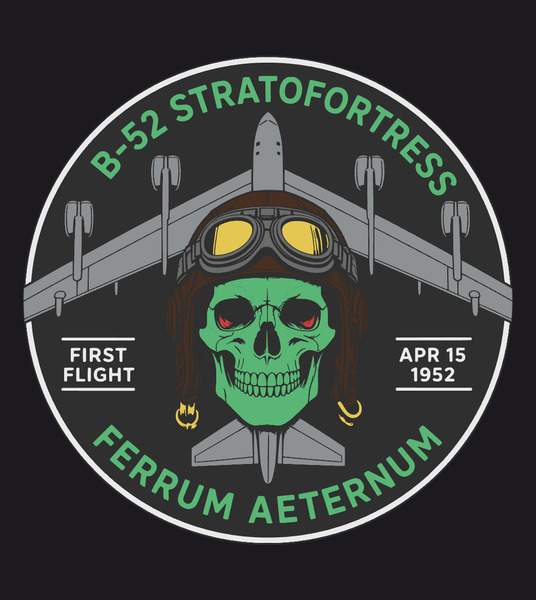
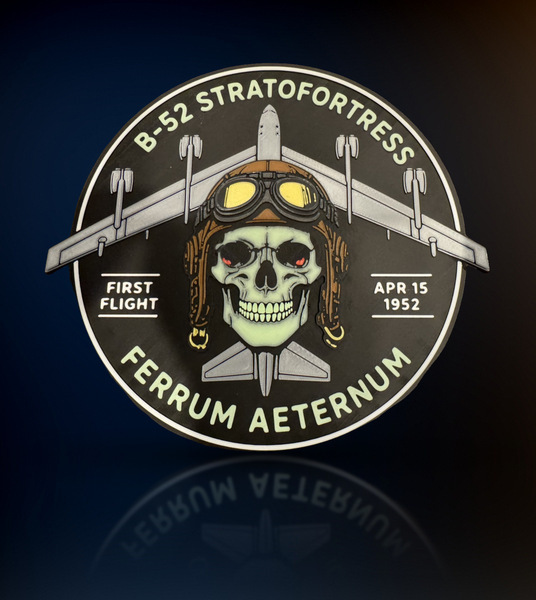
B-52: real studio hero, thumb, and gallery photos
Replace the design stand-in with a studio cutout of the printed plaque (no stand), a resize-then-crop thumb, and daylight and glow gallery photos. Classical retouch only on the source used for the hero and daylight shot.

diff --git a/index.html b/index.html
@@ -42,8 +42,7 @@ footer{text-align:center;color:#6b7180;font-size:.85rem;padding:0 20px 32px;max-
   </header>
   <div class="grid">
     <!-- One card per plaque. Add new ones here. -->
-    <!-- TODO: replace b52/thumb.jpg with a real-photo thumb once print photos arrive; current file is a temporary design stand-in. -->
-    <a class="card" href="b52/"><img src="b52/thumb.jpg?v=1" alt="B-52 Stratofortress plaque" loading="lazy"><div class="info"><span class="name">B-52 Stratofortress</span><span class="price">$30</span></div><span class="status">Ferrum Aeternum<span class="tr">&ldquo;Eternal Iron&rdquo;</span><span class="feat">Glow-in-the-dark &middot; Magnetic</span></span></a>
+    <a class="card" href="b52/"><img src="b52/thumb.jpg?v=2" alt="B-52 Stratofortress plaque" loading="lazy"><div class="info"><span class="name">B-52 Stratofortress</span><span class="price">$30</span></div><span class="status">Ferrum Aeternum<span class="tr">&ldquo;Eternal Iron&rdquo;</span><span class="feat">Glow-in-the-dark &middot; Magnetic</span></span></a>
     <a class="card" href="oz/"><img src="oz/thumb.jpg?v=3" alt="Oz plaque" loading="lazy"><div class="info"><span class="name">Oz</span><span class="price">$25</span></div><span class="status"><span class="feat">Glow-in-the-dark &middot; Includes stand</span></span></a>
     <a class="card" href="reaper/"><img src="reaper/thumb.jpg" alt="Reaper plaque" loading="lazy"><div class="info"><span class="name">Reaper</span><span class="price">$25</span></div><span class="status">Carpe Noctem<span class="tr">&ldquo;Seize the Night&rdquo;</span><span class="feat">Glow-in-the-dark &middot; Includes stand</span></span></a>
     <a class="card" href="b21/"><img src="b21/thumb.jpg" alt="B-21 Raider plaque" loading="lazy"><div class="info"><span class="name">B-21 Raider</span><span class="price">$30</span></div><span class="status">Umbra Mortis<span class="tr">&ldquo;Shadow of Death&rdquo;</span><span class="feat">Glow-in-the-dark &middot; Magnetic</span></span></a>

diff --git a/b52/index.html b/b52/index.html
@@ -51,8 +51,7 @@ footer .brand{margin-top:10px;color:#6b7180;letter-spacing:.06em}
 <body>
 <a class="brandbar" href="../"><span class="tile"><img src="../logo.svg" alt=""></span><span class="wm">NozzleWorksStudio</span></a>
 <div class="hero">
-  <!-- TODO: replace studio-real.jpg with a real print photo on the studio backdrop once photos arrive. Current file is a temporary design stand-in. -->
-  <img src="studio-real.jpg" width="1200" height="1200" alt="B-52 Stratofortress plaque design on a dark background">
+  <img src="studio-real.jpg?v=1" width="1200" height="1200" alt="B-52 Stratofortress plaque, Ferrum Aeternum, on a dark studio background">
 </div>
 <main>
   <header>
@@ -78,7 +77,14 @@ footer .brand{margin-top:10px;color:#6b7180;letter-spacing:.06em}
     </ul>
   </section>
 
-  <!-- TODO: add a Gallery section modeled on b21/ once real print photos (and any glow or magnet clips) arrive. Do not use the design file as a gallery photo. -->
+  <section>
+    <h2>Gallery</h2>
+    <div class="gallery">
+      <figure><img src="real-photo.jpg" width="1600" height="1200" loading="lazy" alt="B-52 Stratofortress plaque in daylight, showing the skull, long wings, and Ferrum Aeternum motto"><figcaption>In daylight</figcaption></figure>
+      <figure><img src="glow-photo.jpg" width="1250" height="1600" loading="lazy" alt="B-52 Stratofortress plaque in low light, with the skull and lettering glowing"><figcaption>Skull and lettering glowing</figcaption></figure>
+    </div>
+  </section>
+
 
   <section class="contact" id="contact">
     <h2>Interested?</h2>
